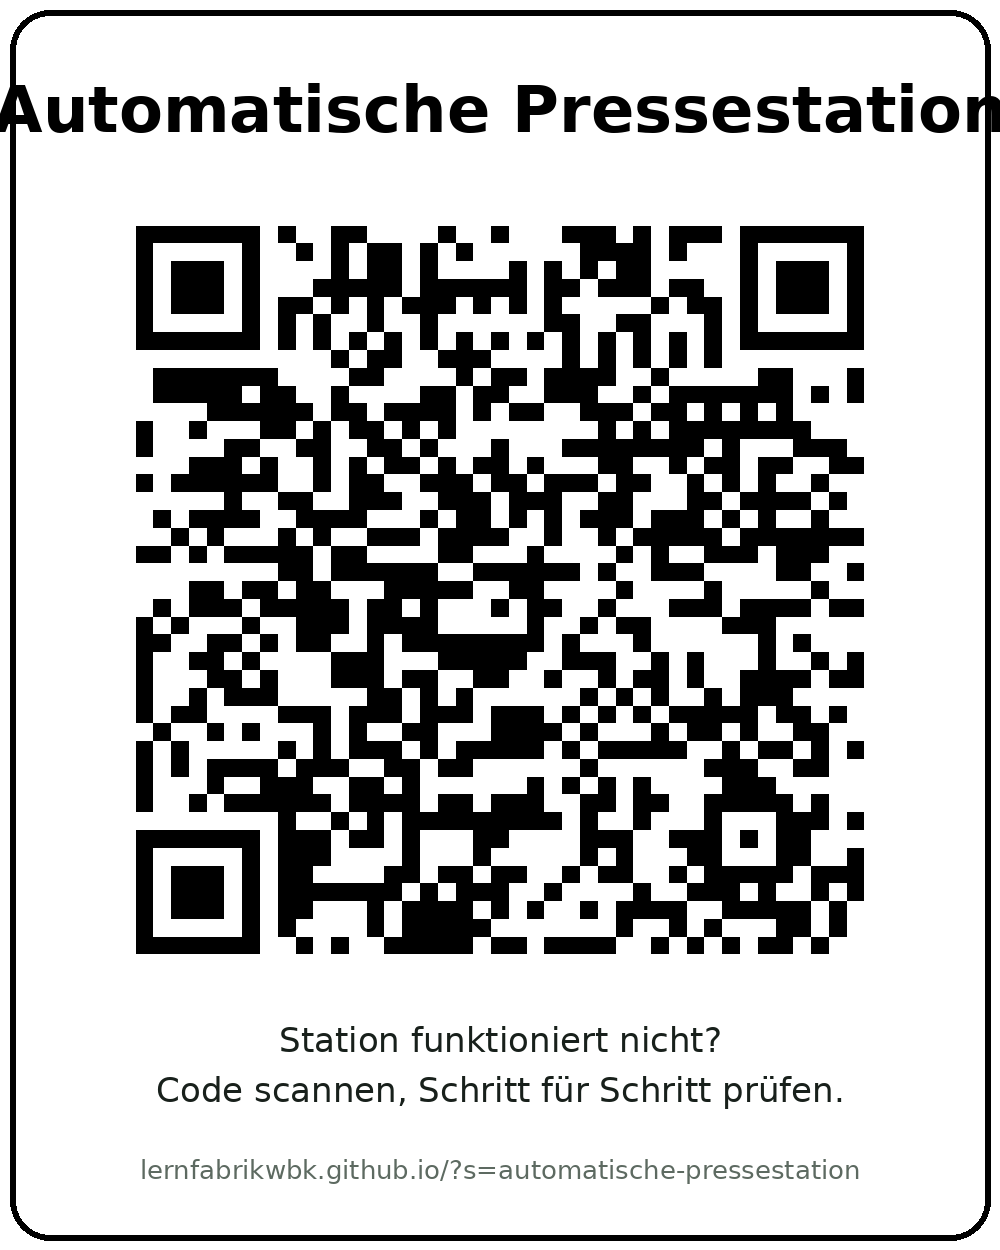
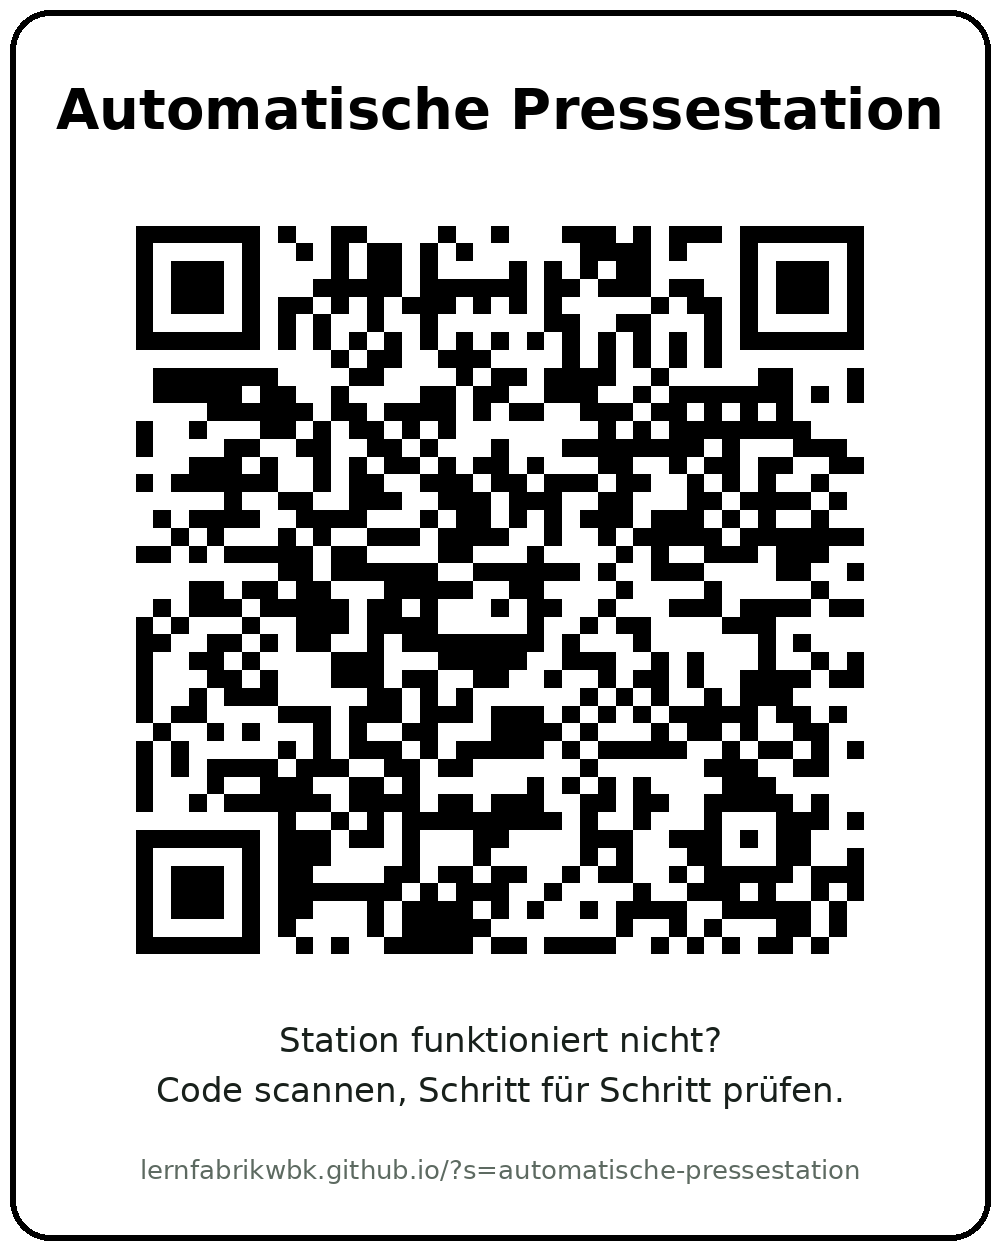
QR-Codes: lange Stationsnamen passen auf die Karte, Skript zum Neu-Erstellen
Claude-Session: https://claude.ai/code/session_01MEf7RuWoWsZHD14kkMEpb1

Changed region(s): [[0.0, 0.0624, 1.0, 0.1248]]

diff --git a/qr-codes/erzeugen.py b/qr-codes/erzeugen.py
@@ -1,0 +1,105 @@
+"""Erzeugt die QR-Codes für alle Stationen aus config.js.
+
+Ausgabe (in diesem Ordner):
+  QR-Codes_Stationen.pdf   A4, 6 Karten pro Seite, zum Ausdrucken
+  qr-<station>.png         eine Karte pro Station als Bild
+
+Aufruf aus dem Repo-Hauptordner:
+  pip install qrcode pillow reportlab
+  python qr-codes/erzeugen.py
+"""
+import os
+import re
+
+import qrcode
+from PIL import Image, ImageDraw, ImageFont
+from reportlab.lib.pagesizes import A4
+from reportlab.lib.units import mm
+from reportlab.lib.utils import ImageReader
+from reportlab.pdfbase import pdfmetrics
+from reportlab.pdfbase.ttfonts import TTFont
+from reportlab.pdfgen import canvas
+
+BASE = "https://lernfabrikwbk.github.io/?s="
+HERE = os.path.dirname(os.path.abspath(__file__))
+ROOT = os.path.dirname(HERE)
+FONT_R = "/usr/share/fonts/truetype/dejavu/DejaVuSans.ttf"
+FONT_B = "/usr/share/fonts/truetype/dejavu/DejaVuSans-Bold.ttf"
+
+
+def stations():
+    cfg = open(os.path.join(ROOT, "config.js"), encoding="utf-8").read()
+    start = cfg.index("STATIONS:")
+    return re.findall(r'"([^"]+)"', cfg[start:cfg.index("]", start)])
+
+
+def slug(t):
+    t = t.lower().replace("ä", "ae").replace("ö", "oe").replace("ü", "ue").replace("ß", "ss")
+    return re.sub(r"^-|-$", "", re.sub(r"[^a-z0-9]+", "-", t))
+
+
+def qr_image(url):
+    q = qrcode.QRCode(error_correction=qrcode.constants.ERROR_CORRECT_Q, box_size=20, border=2)
+    q.add_data(url)
+    q.make(fit=True)
+    return q.make_image(fill_color="black", back_color="white").convert("RGB")
+
+
+def png_card(name, url, path):
+    W, H = 1000, 1250
+    im = Image.new("RGB", (W, H), "white")
+    d = ImageDraw.Draw(im)
+    d.rounded_rectangle((10, 10, W - 10, H - 10), 40, outline="black", width=6)
+    size = 64
+    while size > 28 and d.textlength(name, font=ImageFont.truetype(FONT_B, size)) > W - 100:
+        size -= 2
+    d.text((W / 2, 110), name, fill="black", font=ImageFont.truetype(FONT_B, size), anchor="mm")
+    im.paste(qr_image(url).resize((800, 800), Image.NEAREST), (100, 190))
+    fr = ImageFont.truetype(FONT_R, 34)
+    d.text((W / 2, 1040), "Station funktioniert nicht?", fill="#18201b", font=fr, anchor="mm")
+    d.text((W / 2, 1090), "Code scannen, Schritt für Schritt prüfen.", fill="#18201b", font=fr, anchor="mm")
+    d.text((W / 2, 1170), url.replace("https://", ""), fill="#5d6a61",
+           font=ImageFont.truetype(FONT_R, 26), anchor="mm")
+    im.save(path)
+
+
+def pdf(names, path):
+    pdfmetrics.registerFont(TTFont("DV", FONT_R))
+    pdfmetrics.registerFont(TTFont("DVB", FONT_B))
+    c = canvas.Canvas(path, pagesize=A4)
+    c.setTitle("QR-Codes Stations-Check Lernfabrik")
+    pw, ph = A4
+    cw, ch = 90 * mm, 88 * mm
+    mx, my = (pw - 2 * cw) / 3, (ph - 3 * ch) / 4
+    for i, name in enumerate(names):
+        k = i % 6
+        if i and k == 0:
+            c.showPage()
+        x = mx + (k % 2) * (cw + mx)
+        y = ph - my - (k // 2 + 1) * ch - (k // 2) * my
+        url = BASE + slug(name)
+        c.setLineWidth(1.2)
+        c.roundRect(x, y, cw, ch, 5 * mm)
+        size = 17
+        while size > 9 and pdfmetrics.stringWidth(name, "DVB", size) > cw - 10 * mm:
+            size -= 0.5
+        c.setFont("DVB", size)
+        c.drawCentredString(x + cw / 2, y + ch - 11 * mm, name)
+        qs = 55 * mm
+        c.drawImage(ImageReader(qr_image(url)), x + (cw - qs) / 2, y + ch - 14 * mm - qs, qs, qs)
+        c.setFont("DV", 9.5)
+        c.drawCentredString(x + cw / 2, y + 12 * mm, "Station funktioniert nicht?")
+        c.drawCentredString(x + cw / 2, y + 8 * mm, "Code scannen, Schritt für Schritt prüfen.")
+        c.setFont("DV", 7)
+        c.setFillColorRGB(0.36, 0.42, 0.38)
+        c.drawCentredString(x + cw / 2, y + 3.5 * mm, url.replace("https://", ""))
+        c.setFillColorRGB(0, 0, 0)
+    c.save()
+
+
+if __name__ == "__main__":
+    names = stations()
+    for n in names:
+        png_card(n, BASE + slug(n), os.path.join(HERE, f"qr-{slug(n)}.png"))
+    pdf(names, os.path.join(HERE, "QR-Codes_Stationen.pdf"))
+    print(f"{len(names)} QR-Codes erzeugt in {HERE}")

diff --git a/README.md b/README.md
@@ -9,7 +9,7 @@ Schritt-für-Schritt-Prüfung einer Lernfabrik-Station: QR-Code an der Station s
 | `index.html` | Das Tool selbst (Ablauf, Auswertung) |
 | `config.js` | **Einstellungen:** Supabase-Zugang und Stationsnamen |
 | `qr.html` | Erzeugt druckfertige QR-Codes für alle Stationen (im Browser) |
-| `qr-codes/` | Fertige QR-Codes: `QR-Codes_Stationen.pdf` zum Drucken (A4, 6 pro Seite) und ein PNG pro Station |
+| `qr-codes/` | Fertige QR-Codes: `QR-Codes_Stationen.pdf` zum Drucken (A4, 6 pro Seite), ein PNG pro Station und `erzeugen.py` zum Neu-Erstellen |
 | `supabase.sql` | Legt die Datenbank-Tabelle an (einmalig in Supabase ausführen) |
 | `images/` | Fotos für die einzelnen Schritte (Namen siehe `images/LIESMICH.md`) |
 
